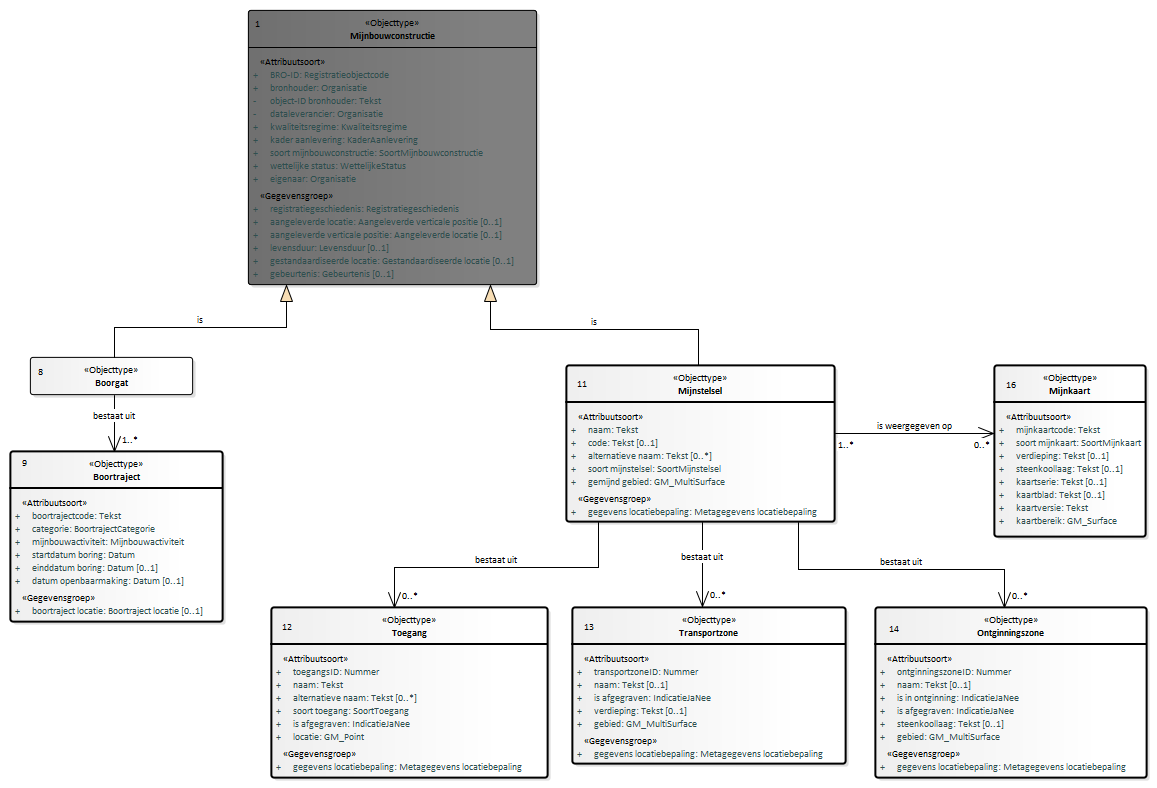
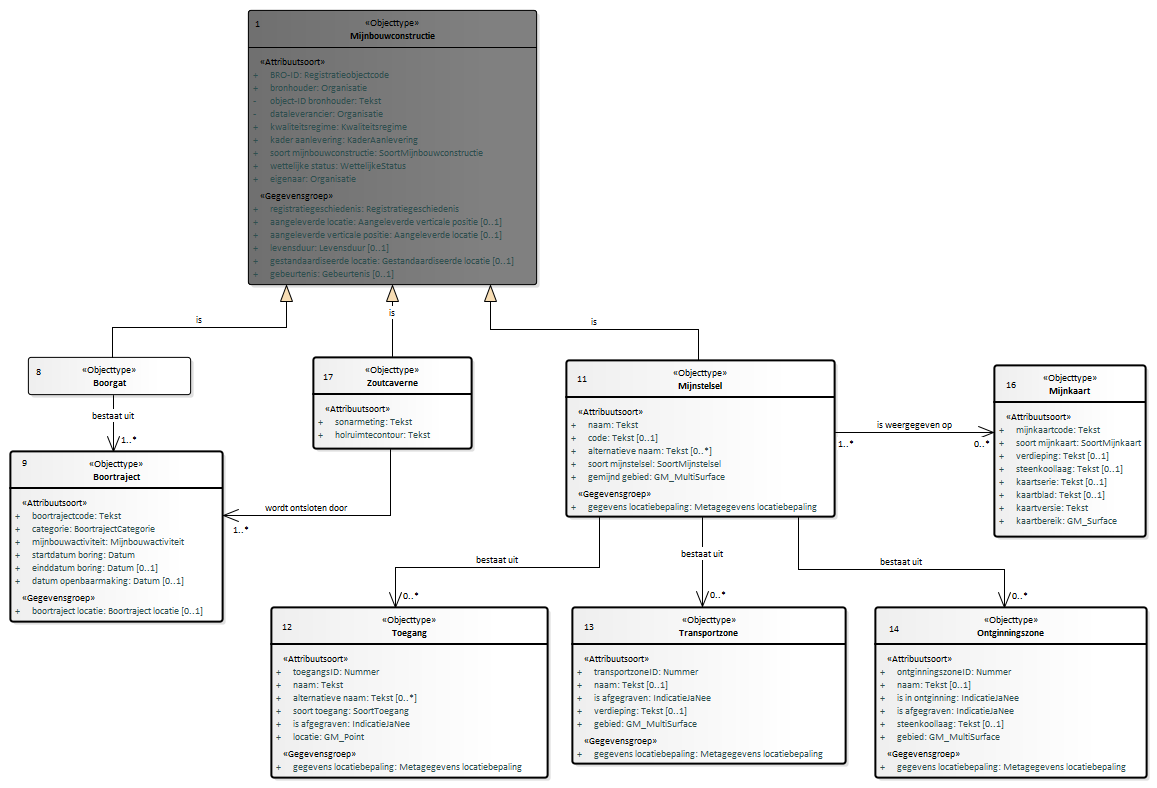
Conceptualmodel-MijnbouwconstructiesEPC-conceptueel-0.1versie27juli2020-1-20200727-20210120-075155

diff --git a/data/EPC-cat.msword.html b/data/EPC-cat.msword.html
@@ -15,7 +15,7 @@
    <body>
       <p>Conceptual model/Mijnbouwconstructies (EPC) - conceptueel/20200727</p>
       <p>Imvertor: 1.63.0</p>
-      <p>Model release: Conceptualmodel-MijnbouwconstructiesEPC-conceptueel-0.1versie27juli2020-1-20200727-20210118-102031</p>
+      <p>Model release: Conceptualmodel-MijnbouwconstructiesEPC-conceptueel-0.1versie27juli2020-1-20200727-20210120-075155</p>
       <hr>
       <section>
          <h1>Artikel 1 Definitie van registratieobject, entiteiten en attributen</h1>
@@ -62,7 +62,7 @@
          <section>
             <h2>Het domeinmodel</h2>
             <section id="">
-               <div class="imageinfo overview"><img src="Images/EAID_017CB205_53B6_4659_8664_F773CFA9FA2C.png" usemap="#imagemap-EAID_017CB205_53B6_4659_8664_F773CFA9FA2C" alt="Diagram "><map name="imagemap-EAID_017CB205_53B6_4659_8664_F773CFA9FA2C"><area shape="rect" alt="Mijnkaart" coords="994,365,1146,537" href="#graph_EAID_1A8DB415_AEF6_4f69_8E8C_0187A61B4D1B"><area shape="rect" alt="Ontginningszone" coords="875,607,1147,778" href="#graph_EAID_B1D55B65_6D27_4eb4_86EC_32DE6BA11322"><area shape="rect" alt="Transportzone" coords="572,607,846,764" href="#graph_EAID_828E18BC_B644_41e8_BF25_CBDE10E9249E"><area shape="rect" alt="Toegang" coords="271,607,548,778" href="#graph_EAID_35D7E222_DC56_4b0e_B219_FCFEF3AE6D86"><area shape="rect" alt="Mijnstelsel" coords="566,365,835,522" href="#graph_EAID_CACC8EE7_6654_4fe8_8333_101AC6BA294D"><area shape="rect" alt="Boorgat" coords="30,357,193,395" href="#graph_EAID_78FEC25A_E260_4420_9D1D_66F309EA2C60"><area shape="rect" alt="Boortraject" coords="10,451,223,622" href="#graph_EAID_4E52826A_2252_4994_8AD0_986AD45E18C9"><area shape="rect" alt="Mijnbouwconstructie" coords="248,10,537,285" href="#graph_EAID_69DE8D60_7E06_4b57_94CD_8338348EDAE5"></map><p><b>Mijnbouwconstructies (EPC) -  overzicht</b></p>
+               <div class="imageinfo overview"><img src="Images/EAID_017CB205_53B6_4659_8664_F773CFA9FA2C.png" usemap="#imagemap-EAID_017CB205_53B6_4659_8664_F773CFA9FA2C" alt="Diagram "><map name="imagemap-EAID_017CB205_53B6_4659_8664_F773CFA9FA2C"><area shape="rect" alt="Zoutcaverne" coords="313,357,472,449" href="#graph_EAID_B71159A1_F213_4de2_AED5_550473F15950"><area shape="rect" alt="Mijnkaart" coords="994,365,1146,537" href="#graph_EAID_1A8DB415_AEF6_4f69_8E8C_0187A61B4D1B"><area shape="rect" alt="Ontginningszone" coords="875,607,1147,778" href="#graph_EAID_B1D55B65_6D27_4eb4_86EC_32DE6BA11322"><area shape="rect" alt="Transportzone" coords="572,607,846,764" href="#graph_EAID_828E18BC_B644_41e8_BF25_CBDE10E9249E"><area shape="rect" alt="Toegang" coords="271,607,548,778" href="#graph_EAID_35D7E222_DC56_4b0e_B219_FCFEF3AE6D86"><area shape="rect" alt="Mijnstelsel" coords="566,360,835,517" href="#graph_EAID_CACC8EE7_6654_4fe8_8333_101AC6BA294D"><area shape="rect" alt="Boorgat" coords="28,357,191,395" href="#graph_EAID_78FEC25A_E260_4420_9D1D_66F309EA2C60"><area shape="rect" alt="Boortraject" coords="10,451,223,622" href="#graph_EAID_4E52826A_2252_4994_8AD0_986AD45E18C9"><area shape="rect" alt="Mijnbouwconstructie" coords="248,10,537,285" href="#graph_EAID_69DE8D60_7E06_4b57_94CD_8338348EDAE5"></map><p><b>Mijnbouwconstructies (EPC) -  overzicht</b></p>
                </div>
             </section>
          </section>
@@ -70,7 +70,7 @@
             <h2>Entiteiten en attributen</h2>
             <section id=""><a class="anchor" id="graph_EAID_69DE8D60_7E06_4b57_94CD_8338348EDAE5"></a><a class="anchor" id="global_class_Model_Mijnbouwconstructie"></a><section id="global_class_Model_Mijnbouwconstructie">
                   <h3>   Mijnbouwconstructie</h3>
-                  <div class="imageinfo "><img src="Images/EAID_4918A086_07EB_4d65_A8F1_3AE97E085019.png" usemap="#imagemap-EAID_4918A086_07EB_4d65_A8F1_3AE97E085019" alt="Diagram "><map name="imagemap-EAID_4918A086_07EB_4d65_A8F1_3AE97E085019"><area shape="rect" alt="Gebeurtenis" coords="48,375,217,464" href="#graph_EAID_9C6EA470_E1F4_479d_B21A_A6E8EA9D3F88"><area shape="rect" alt="Mijnstelsel" coords="462,375,560,427" href="#graph_EAID_CACC8EE7_6654_4fe8_8333_101AC6BA294D"><area shape="rect" alt="Boorgat" coords="272,375,371,427" href="#graph_EAID_78FEC25A_E260_4420_9D1D_66F309EA2C60"><area shape="rect" alt="Levensduur" coords="48,257,217,346" href="#graph_EAID_C36A9725_3F81_4f6c_BDE2_5CED730905A2"><area shape="rect" alt="Gestandaardiseerde locatie" coords="633,325,868,427" href="#graph_EAID_95E39295_3080_4135_862A_30756039B864"><area shape="rect" alt="Mijnbouwconstructie" coords="272,10,561,301" href="#graph_EAID_69DE8D60_7E06_4b57_94CD_8338348EDAE5"><area shape="rect" alt="Registratiegeschiedenis" coords="10,10,246,229" href="#graph_EAID_8550146B_496A_40ca_BE86_AFD377E5A6D8"><area shape="rect" alt="Aangeleverde verticale positie" coords="589,159,923,301" href="#graph_EAID_A249D799_B098_49cd_98AA_DCAE0EB07DE7"><area shape="rect" alt="Aangeleverde locatie" coords="624,10,877,138" href="#graph_EAID_EDA11EEA_8FED_44be_AC04_18B58CB46F11"></map><p><b></b></p>
+                  <div class="imageinfo "><img src="Images/EAID_4918A086_07EB_4d65_A8F1_3AE97E085019.png" usemap="#imagemap-EAID_4918A086_07EB_4d65_A8F1_3AE97E085019" alt="Diagram "><map name="imagemap-EAID_4918A086_07EB_4d65_A8F1_3AE97E085019"><area shape="rect" alt="Zoutcaverne" coords="371,445,472,494" href="#graph_EAID_B71159A1_F213_4de2_AED5_550473F15950"><area shape="rect" alt="Gebeurtenis" coords="48,375,217,464" href="#graph_EAID_9C6EA470_E1F4_479d_B21A_A6E8EA9D3F88"><area shape="rect" alt="Mijnstelsel" coords="462,375,560,427" href="#graph_EAID_CACC8EE7_6654_4fe8_8333_101AC6BA294D"><area shape="rect" alt="Boorgat" coords="272,375,371,427" href="#graph_EAID_78FEC25A_E260_4420_9D1D_66F309EA2C60"><area shape="rect" alt="Levensduur" coords="48,257,217,346" href="#graph_EAID_C36A9725_3F81_4f6c_BDE2_5CED730905A2"><area shape="rect" alt="Gestandaardiseerde locatie" coords="633,325,868,427" href="#graph_EAID_95E39295_3080_4135_862A_30756039B864"><area shape="rect" alt="Mijnbouwconstructie" coords="272,10,561,301" href="#graph_EAID_69DE8D60_7E06_4b57_94CD_8338348EDAE5"><area shape="rect" alt="Registratiegeschiedenis" coords="10,10,246,229" href="#graph_EAID_8550146B_496A_40ca_BE86_AFD377E5A6D8"><area shape="rect" alt="Aangeleverde verticale positie" coords="589,159,923,301" href="#graph_EAID_A249D799_B098_49cd_98AA_DCAE0EB07DE7"><area shape="rect" alt="Aangeleverde locatie" coords="624,10,877,138" href="#graph_EAID_EDA11EEA_8FED_44be_AC04_18B58CB46F11"></map><p><b></b></p>
                   </div>
                   <table style="width: 100%;">
                      <colgroup style="width: 30%;"></colgroup>
@@ -590,7 +590,7 @@
                            </tr>
                         </tbody>
                      </table>
-                     </section><a class="anchor" id="detail_d48373e2016"></a><section id="detail_d48373e2016">
+                     </section><a class="anchor" id="detail_d49455e2016"></a><section id="detail_d49455e2016">
                      <h4>  registratiegeschiedenis</h4>
                      
                      
@@ -630,7 +630,7 @@
                            </tr>
                         </tbody>
                      </table>
-                     </section><a class="anchor" id="detail_d48373e2139"></a><section id="detail_d48373e2139">
+                     </section><a class="anchor" id="detail_d49455e2139"></a><section id="detail_d49455e2139">
                      <h4>  aangeleverde locatie</h4>
                      
                      
@@ -670,7 +670,7 @@
                            </tr>
                         </tbody>
                      </table>
-                     </section><a class="anchor" id="detail_d48373e2262"></a><section id="detail_d48373e2262">
+                     </section><a class="anchor" id="detail_d49455e2262"></a><section id="detail_d49455e2262">
                      <h4>  aangeleverde verticale positie</h4>
                      
                      
@@ -710,7 +710,7 @@
                            </tr>
                         </tbody>
                      </table>
-                     </section><a class="anchor" id="detail_d48373e2385"></a><section id="detail_d48373e2385">
+                     </section><a class="anchor" id="detail_d49455e2385"></a><section id="detail_d49455e2385">
                      <h4>  levensduur</h4>
                      
                      
@@ -750,7 +750,7 @@
                            </tr>
                         </tbody>
                      </table>
-                     </section><a class="anchor" id="detail_d48373e2508"></a><section id="detail_d48373e2508">
+                     </section><a class="anchor" id="detail_d49455e2508"></a><section id="detail_d49455e2508">
                      <h4>  gestandaardiseerde locatie</h4>
                      
                      
@@ -790,7 +790,7 @@
                            </tr>
                         </tbody>
                      </table>
-                     </section><a class="anchor" id="detail_d48373e2631"></a><section id="detail_d48373e2631">
+                     </section><a class="anchor" id="detail_d49455e2631"></a><section id="detail_d49455e2631">
                      <h4>  gebeurtenis</h4>
                      
                      
@@ -833,7 +833,7 @@
                      </section>
                </section><a class="anchor" id="graph_EAID_8550146B_496A_40ca_BE86_AFD377E5A6D8"></a><a class="anchor" id="global_class_Model_Registratiegeschiedenis"></a><section id="global_class_Model_Registratiegeschiedenis">
                   <h3>   Registratiegeschiedenis</h3>
-                  <div class="imageinfo "><img src="Images/EAID_4161F12A_AE6F_4846_A8B5_22A58C45A706.png" usemap="#imagemap-EAID_4161F12A_AE6F_4846_A8B5_22A58C45A706" alt="Diagram "><map name="imagemap-EAID_4161F12A_AE6F_4846_A8B5_22A58C45A706"><area shape="rect" alt="Registratiegeschiedenis" coords="-43,-24,193,195" href="#graph_EAID_8550146B_496A_40ca_BE86_AFD377E5A6D8"></map><p><b></b></p>
+                  <div class="imageinfo "><img src="Images/EAID_F1069E25_5789_44ba_8E8A_18A188284DE6.png" usemap="#imagemap-EAID_F1069E25_5789_44ba_8E8A_18A188284DE6" alt="Diagram "><map name="imagemap-EAID_F1069E25_5789_44ba_8E8A_18A188284DE6"><area shape="rect" alt="Registratiegeschiedenis" coords="10,10,246,229" href="#graph_EAID_8550146B_496A_40ca_BE86_AFD377E5A6D8"></map><p><b></b></p>
                   </div>
                   <table style="width: 100%;">
                      <colgroup style="width: 30%;"></colgroup>
@@ -2963,7 +2963,7 @@
                            </tr>
                         </tbody>
                      </table>
-                     </section><a class="anchor" id="detail_d48373e9849"></a><section id="detail_d48373e9849">
+                     </section><a class="anchor" id="detail_d49455e9849"></a><section id="detail_d49455e9849">
                      <h4>  boortraject locatie</h4>
                      
                      
@@ -3633,7 +3633,7 @@
                            </tr>
                         </tbody>
                      </table>
-                     </section><a class="anchor" id="detail_d48373e11898"></a><section id="detail_d48373e11898">
+                     </section><a class="anchor" id="detail_d49455e11898"></a><section id="detail_d49455e11898">
                      <h4>  gegevens locatiebepaling</h4>
                      
                      
@@ -3976,7 +3976,7 @@
                            </tr>
                         </tbody>
                      </table>
-                     </section><a class="anchor" id="detail_d48373e13021"></a><section id="detail_d48373e13021">
+                     </section><a class="anchor" id="detail_d49455e13021"></a><section id="detail_d49455e13021">
                      <h4>  gegevens locatiebepaling</h4>
                      
                      
@@ -4297,7 +4297,7 @@
                            </tr>
                         </tbody>
                      </table>
-                     </section><a class="anchor" id="detail_d48373e14131"></a><section id="detail_d48373e14131">
+                     </section><a class="anchor" id="detail_d49455e14131"></a><section id="detail_d49455e14131">
                      <h4>  gegevens locatiebepaling</h4>
                      
                      
@@ -4690,7 +4690,7 @@
                            </tr>
                         </tbody>
                      </table>
-                     </section><a class="anchor" id="detail_d48373e15466"></a><section id="detail_d48373e15466">
+                     </section><a class="anchor" id="detail_d49455e15466"></a><section id="detail_d49455e15466">
                      <h4>  gegevens locatiebepaling</h4>
                      
                      
@@ -5398,6 +5398,163 @@
                         </tbody>
                      </table>
                      </section>
+               </section><a class="anchor" id="graph_EAID_B71159A1_F213_4de2_AED5_550473F15950"></a><a class="anchor" id="global_class_Model_Zoutcaverne"></a><section id="global_class_Model_Zoutcaverne">
+                  <h3>   Zoutcaverne</h3>
+                  <div class="imageinfo "><img src="Images/EAID_A51256DE_DB50_4ff8_92F8_98C6F7D26548.png" usemap="#imagemap-EAID_A51256DE_DB50_4ff8_92F8_98C6F7D26548" alt="Diagram "><map name="imagemap-EAID_A51256DE_DB50_4ff8_92F8_98C6F7D26548"><area shape="rect" alt="Zoutcaverne" coords="10,10,184,115" href="#graph_EAID_B71159A1_F213_4de2_AED5_550473F15950"></map><p><b></b></p>
+                  </div>
+                  <table style="width: 100%;">
+                     <colgroup style="width: 30%;"></colgroup>
+                     <colgroup style="width: 70%;"></colgroup>
+                     <tbody>
+                        <tr>
+                           <th>Type gegeven</th>
+                           <td>Entiteit</td>
+                        </tr>
+                        <tr>
+                           <th>Definitie</th>
+                           <td>
+                              
+                              <p>Een zoutcaverne is een holruimte in de ondergrond die is ontstaan bij de verandering
+                                 van het in de ondergrond aanwezige zout vanuit vaste fase naar zout in vloeibare dan
+                                 wel gasvormige fase.</p>
+                              </td>
+                        </tr>
+                        <tr>
+                           <th>Toelichting</th>
+                           <td>
+                              
+                              <p>De verandering in fase is een proces dat door de mens wordt geïnitieerd door loging
+                                 (het pompen van zoetwater in de zoutlaag). 
+                                 Een zoutcaverne hoeft niet per se te ontstaan ten behoeve van zoutwinning. Het primaire
+                                 doel van het creëren van een holruimte in de ondergrond kan ook het opslaan van gas
+                                 of andere stoffen zijn.</p>
+                              </td>
+                        </tr>
+                     </tbody>
+                  </table><a class="anchor" id="detail_attribute_Model_Zoutcaverne_sonarmeting"></a><section id="detail_attribute_Model_Zoutcaverne_sonarmeting">
+                     <h4>  sonarmeting</h4>
+                     
+                     <table style="width: 100%;">
+                        <colgroup style="width: 30%;"></colgroup>
+                        <colgroup style="width: 70%;"></colgroup>
+                        <tbody>
+                           <tr>
+                              <th>Type gegeven</th>
+                              <td>Attribuut van Zoutcaverne</td>
+                           </tr>
+                           <tr>
+                              <th>Definitie</th>
+                              <td>
+                                 
+                                 <p>De geometrie gegevens van de zoutcaverne in rapportvorm.</p>
+                                 </td>
+                           </tr>
+                           <tr>
+                              <th>Juridische status</th>
+                              <td>Authentiek</td>
+                           </tr>
+                           <tr>
+                              <th>Kardinaliteit</th>
+                              <td>1</td>
+                           </tr>
+                           <tr>
+                              <th>Domein</th>
+                              <td></td>
+                           </tr>
+                           <tr>
+                              <th>&nbsp;&nbsp;Naam</th>
+                              <td>Tekst </td>
+                           </tr>
+                           <tr>
+                              <th>Materiële geschiedenis</th>
+                              <td>Nee</td>
+                           </tr>
+                           <tr>
+                              <th>Toelichting</th>
+                              <td>
+                                 
+                                 <p>Met behulp van SONAR wordt de vorm van de caverne ingemeten.</p>
+                                 </td>
+                           </tr>
+                        </tbody>
+                     </table>
+                     </section><a class="anchor" id="detail_attribute_Model_Zoutcaverne_holruimtecontour"></a><section id="detail_attribute_Model_Zoutcaverne_holruimtecontour">
+                     <h4>  holruimtecontour</h4>
+                     
+                     <table style="width: 100%;">
+                        <colgroup style="width: 30%;"></colgroup>
+                        <colgroup style="width: 70%;"></colgroup>
+                        <tbody>
+                           <tr>
+                              <th>Type gegeven</th>
+                              <td>Attribuut van Zoutcaverne</td>
+                           </tr>
+                           <tr>
+                              <th>Definitie</th>
+                              <td>
+                                 
+                                 <p>De maximale horizontale contour van de in de ondergrond aanwezige zoutcaverne.</p>
+                                 </td>
+                           </tr>
+                           <tr>
+                              <th>Juridische status</th>
+                              <td>Authentiek</td>
+                           </tr>
+                           <tr>
+                              <th>Kardinaliteit</th>
+                              <td>1</td>
+                           </tr>
+                           <tr>
+                              <th>Domein</th>
+                              <td></td>
+                           </tr>
+                           <tr>
+                              <th>&nbsp;&nbsp;Naam</th>
+                              <td>Tekst </td>
+                           </tr>
+                           <tr>
+                              <th>Materiële geschiedenis</th>
+                              <td>Nee</td>
+                           </tr>
+                        </tbody>
+                     </table>
+                     </section><a class="anchor" id="detail_association_Model_Zoutcaverne_Boortraject"></a><section id="detail_association_Model_Zoutcaverne_Boortraject">
+                     <h4>  wordt ontsloten door</h4>
+                     
+                     
+                     <table style="width: 100%;">
+                        <colgroup style="width: 30%;"></colgroup>
+                        <colgroup style="width: 70%;"></colgroup>
+                        <tbody>
+                           <tr>
+                              <th>Type gegeven</th>
+                              <td>Associatie van Zoutcaverne</td>
+                           </tr>
+                           <tr>
+                              <th>Kardinaliteit</th>
+                              <td>1..*</td>
+                           </tr>
+                           <tr>
+                              <th>Relatiesoort naam</th>
+                              <td>wordt ontsloten door</td>
+                           </tr>
+                           <tr>
+                              <th>Relatierol naam</th>
+                              <td>Boortraject</td>
+                           </tr>
+                           <tr>
+                              <th>Source</th>
+                              <td>Zoutcaverne</td>
+                           </tr>
+                           <tr>
+                              <th>Target</th>
+                              <td>
+                                 Boortraject
+                                 </td>
+                           </tr>
+                        </tbody>
+                     </table>
+                     </section>
                </section>
             </section>
          </section>
@@ -5744,8 +5901,6 @@
                      <td>
                         
                         <p>De lijst met de methoden voor het bepalen van de locatie van de mijnbouwconstructie.</p>
-                        
-                        <p>OPEN PUNT: Toevoegen van methoden te gebruiken i.r.t. mijnstelsels.</p>
                         </td>
                   </tr>
                </tbody>
@@ -6223,6 +6378,15 @@
                      <td>
                         
                         <p>In een ontginningszone is winning gestart of beëindigd.</p>
+                        </td>
+                  </tr>
+                  <tr>
+                     <td>geometrieZoutcaverneHerzien</td>
+                     <td>✔</td>
+                     <td>✔</td>
+                     <td>
+                        
+                        <p>De geometrie van een zoutcaverne is gewijzigd.</p>
                         </td>
                   </tr>
                </tbody>
